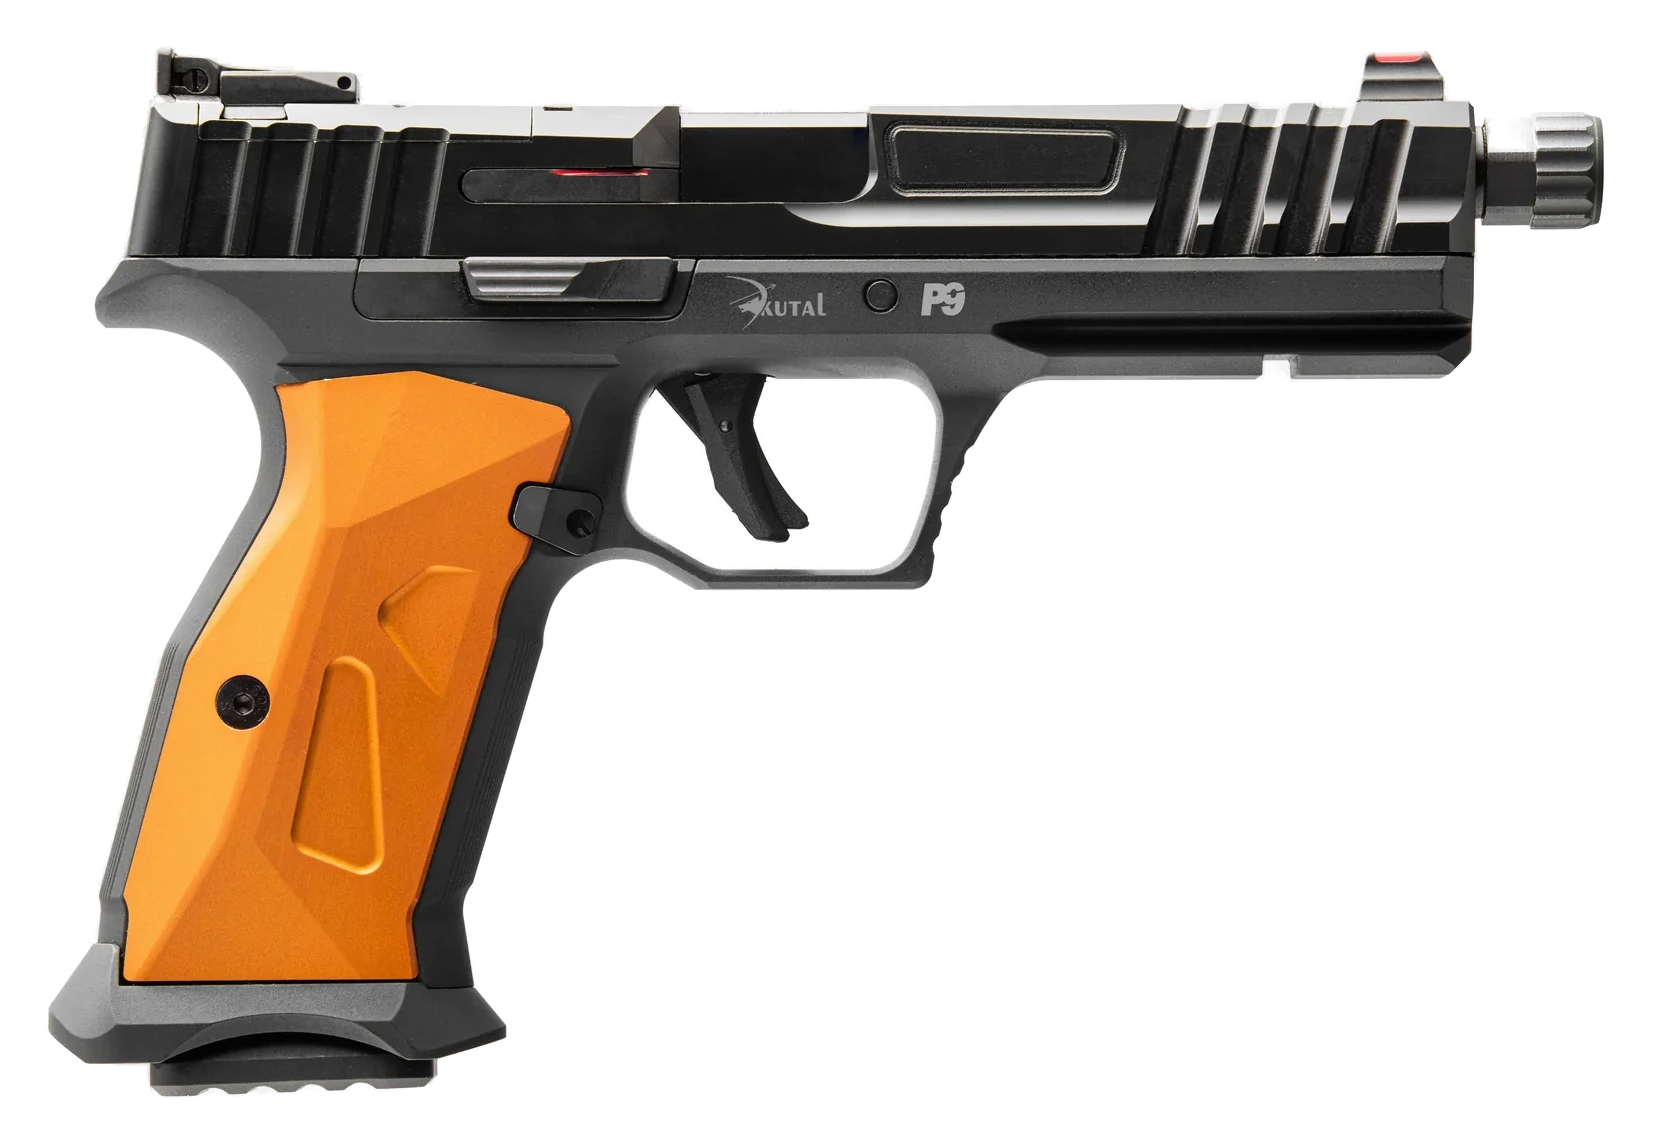
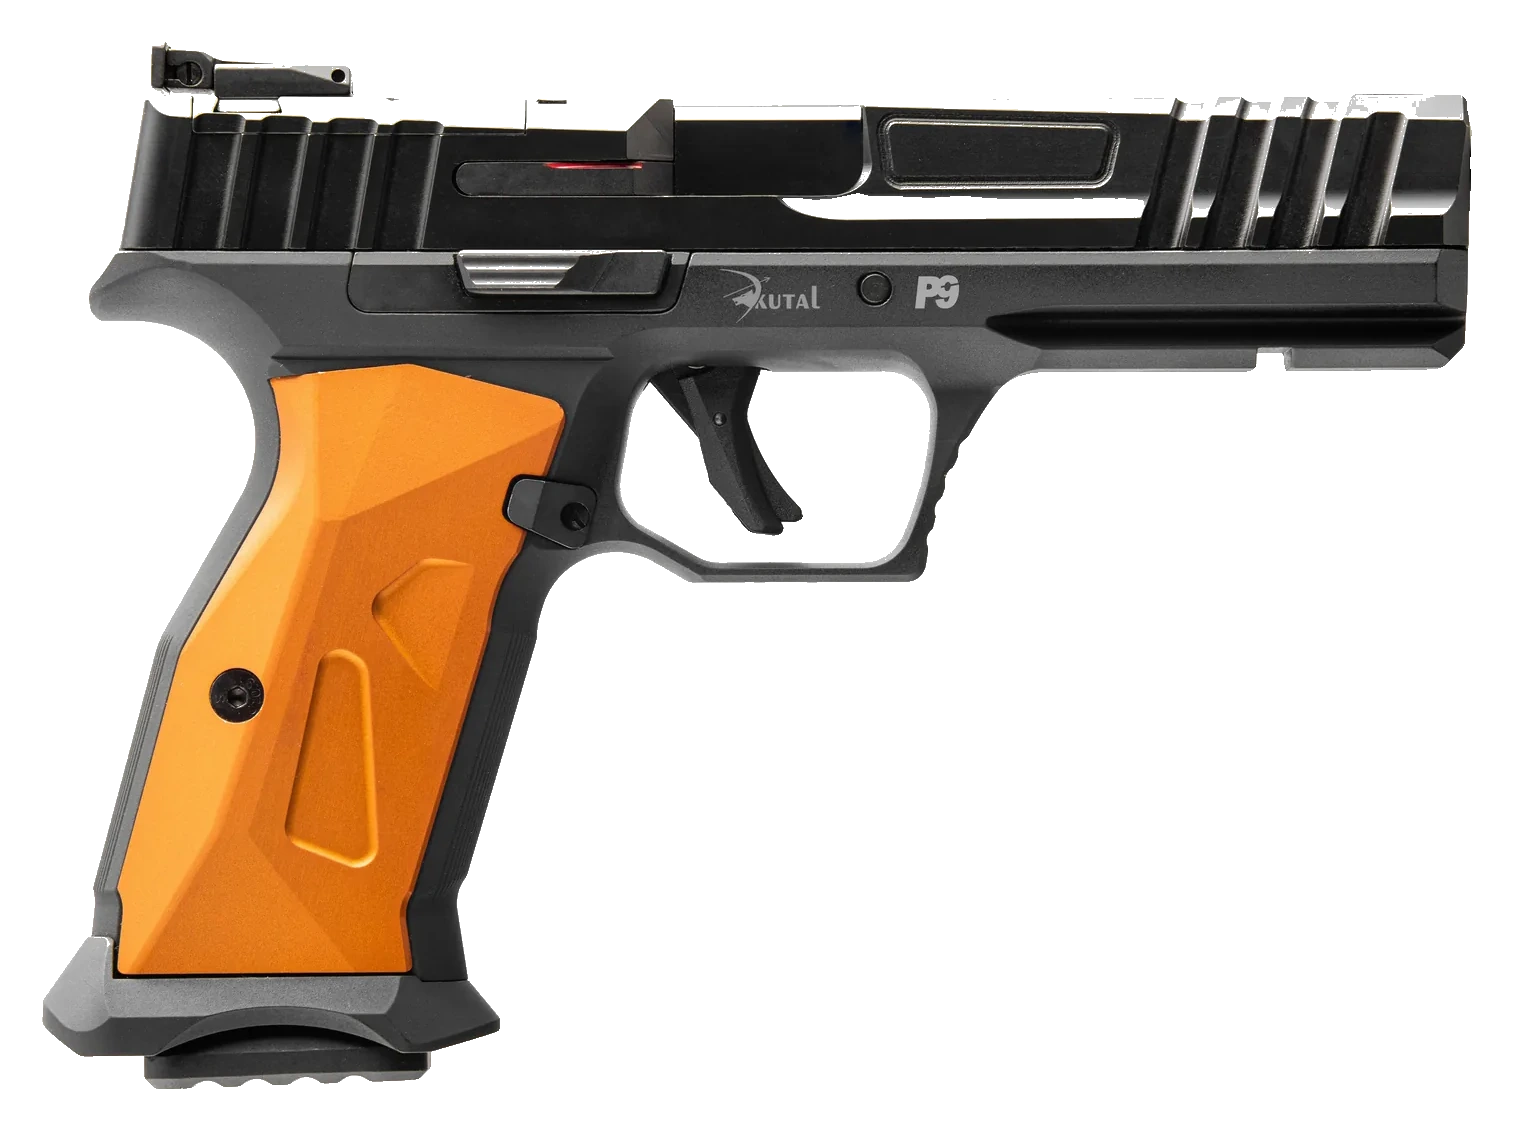
Ürün görsellerinde arka plan kesme bozulmaları düzeltildi
- Fotoğraflar (BR9, GN4, P9 Sport, P9) isnet-general-use + açık-piksel
  temizliğiyle yeniden işlendi: tetik korkuluğu boşlukları şeffaf,
  kenarlar temiz, renkli gripler korundu (ana + galeri)
- Tedarik ürünleri (P762, M762, KTL21, H120, H81) düzgün kesildi
- b40s yedekten geri alındı; cache-buster t10

Changed region(s): [[0.031, 0.0309, 0.9934, 0.9593]]

diff --git a/js/products.js b/js/products.js
@@ -303,7 +303,7 @@ window.KUTAL_PRODUCTS = [
     p.gallery = [p.img].concat((g[p.slug] || []).map((f) => GP + f));
   });
   // şeffaf görseller için önbellek kırıcı
-  const Q = "?t9";
+  const Q = "?t10";
   (window.KUTAL_PRODUCTS || []).forEach((p) => {
     p.img += Q;
     if (p.gallery) p.gallery = p.gallery.map((s) => s + Q);
